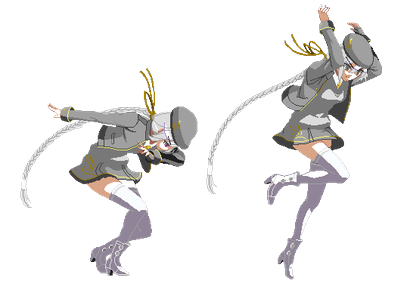
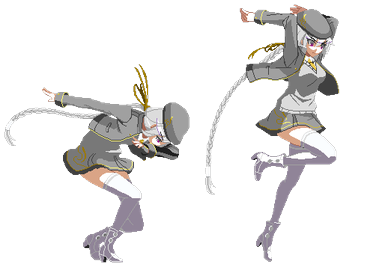
SFFG: Sarge's real animation set, mapped by the owner frame by frame
The original segmentation was wrong: canvas-size runs don't align with
animation boundaries in this pack, so several blocks merged unrelated
animations. The owner watched every block animated (36-cell GIF grid) and
identified each one; strips rebuilt from the correct frames:

- idle is a real stance loop (old one was her INTRO animation)
- true walk forward + dedicated walk backward
- Naruto-style sprint for the dash, lean-back dodge hop for the backdash
- light = punch, heavy = pirouette kick, special = her braid used as a
  whip (Reel In), crouch heavy = braid uppercut launcher, air = volley
  kick, super = the vertical flag kick
- real block, knockdown, and getup animations
- crouch is a stand-to-kneel transition the engine now holds

Engine (all optional, other characters unaffected): walkback / dash /
backdash / block / getup anim keys with graceful fallbacks, per-move
anim override (move.anim names its sheet), crouch hold-last, generalized
frame-count math (no more hardcoded 4s and 6s).

Claude-Session: https://claude.ai/code/session_01ToKNyodTLDquYTFuebZcQU

diff --git a/fight.html b/fight.html
@@ -473,6 +473,14 @@ function show(id){
      idleTop  y of the top of the head in the idle pose (portrait scaling)
      scale    game pixels per cell pixel
      anims    idle/run/jump/fall/attack1/attack2/hit/death → {f:file, n:frames}
+              optional extras (used automatically when present): walkback,
+              dash, backdash, block, getup, crouch (stand-to-kneel, held),
+              plus any custom key a move points at via its anim field.
+              Per-anim cw/ch/cx/fy override the global cell geometry.
+   A move may set anim:'key' to use its own sheet; otherwise light-ish moves
+   share attack1 and heavy-ish moves share attack2. The engine always puts
+   the sheet's second-to-last frame on the move's active window — author
+   strips as windup…, impact, follow-through.
    Few art frames + fast gameplay is fine: the engine stretches or holds
    frames to fit each move's real frame data. Chunky is a feature.
    ════════════════════════════════════════════════════════════════════ */
@@ -541,29 +549,40 @@ const CHARACTERS=[
   w:48, h:150, crouchH:104,
   sprite:{ /* "Fighter Anime Girl Sprite" by neopixelboyco (itch.io, CC0 option) —
              design verified distinct from any commercial fighter; chroma-keyed,
-             cropped and re-composed into strips. See art/sarge/LICENSE.txt */
+             cropped and re-composed into strips. Frame mapping identified by
+             the owner watching every block animated. See art/sarge/LICENSE.txt */
     path:'art/sarge/', scale:0.58, smooth:1, idleTop:8,
     anims:{
-      idle:{f:'idle.png',n:9,cw:176,ch:270,cx:106,fy:264},
-      run:{f:'run.png',n:8,cw:424,ch:300,cx:126,fy:295},
-      jump:{f:'jump.png',n:2,cw:202,ch:284,cx:108,fy:278},
-      fall:{f:'fall.png',n:2,cw:165,ch:303,cx:78,fy:297},
-      attack1:{f:'attack1.png',n:8,cw:326,ch:268,cx:159,fy:263},
-      attack2:{f:'attack2.png',n:9,cw:289,ch:281,cx:106,fy:275},
-      hit:{f:'hit.png',n:4,cw:141,ch:270,cx:61,fy:265},
-      death:{f:'death.png',n:6,cw:262,ch:279,cx:132,fy:274},
-      crouch:{f:'crouch.png',n:6,cw:168,ch:253,cx:92,fy:247}
+      idle:{f:'idle.png',n:8,cw:163,ch:269,cx:106,fy:264},
+      run:{f:'run.png',n:9,cw:173,ch:267,cx:88,fy:262},
+      walkback:{f:'walkback.png',n:7,cw:124,ch:268,cx:59,fy:262},
+      dash:{f:'dash.png',n:8,cw:256,ch:190,cx:129,fy:185},
+      backdash:{f:'backdash.png',n:6,cw:216,ch:270,cx:121,fy:265},
+      jump:{f:'jump.png',n:2,cw:194,ch:267,cx:96,fy:262},
+      fall:{f:'fall.png',n:2,cw:163,ch:300,cx:76,fy:295},
+      attack1:{f:'attack1.png',n:6,cw:252,ch:258,cx:115,fy:252},
+      attack2:{f:'attack2.png',n:8,cw:287,ch:278,cx:105,fy:273},
+      special:{f:'special.png',n:8,cw:269,ch:280,cx:156,fy:274},
+      super:{f:'super.png',n:9,cw:273,ch:323,cx:78,fy:317},
+      clight:{f:'clight.png',n:6,cw:274,ch:176,cx:93,fy:171},
+      cheavy:{f:'cheavy.png',n:7,cw:261,ch:206,cx:138,fy:200},
+      airatk:{f:'airatk.png',n:6,cw:323,ch:266,cx:158,fy:260},
+      hit:{f:'hit.png',n:4,cw:202,ch:268,cx:59,fy:262},
+      block:{f:'block.png',n:4,cw:213,ch:266,cx:110,fy:261},
+      death:{f:'death.png',n:6,cw:320,ch:249,cx:135,fy:244},
+      getup:{f:'getup.png',n:5,cw:241,ch:168,cx:120,fy:162},
+      crouch:{f:'crouch.png',n:4,cw:140,ch:268,cx:61,fy:262}
     }
   },
   moves:{
-    light:{name:'Whip Snap',dmg:55,startup:8,active:3,recovery:14,hitstun:15,blockstun:9,hitstop:5,kbx:70,box:{x:28,y:-128,w:92,h:30}},
-    heavy:{name:'Crack the Sky',dmg:115,startup:14,active:4,recovery:20,hitstun:22,blockstun:12,hitstop:9,kbx:110,box:{x:30,y:-140,w:104,h:44}},
-    special:{name:'Reel In',dmg:90,startup:13,active:4,recovery:22,hitstun:26,blockstun:13,hitstop:10,kbx:-130,box:{x:36,y:-130,w:120,h:40}},
-    air:{name:'Sky Lash',dmg:60,startup:8,active:7,recovery:9,hitstun:15,blockstun:9,hitstop:5,kbx:60,hits:'high',box:{x:20,y:-100,w:96,h:40}},
-    clight:{name:'Boot Lash',dmg:45,startup:7,active:3,recovery:12,hitstun:14,blockstun:9,hitstop:5,kbx:55,hits:'low',box:{x:30,y:-44,w:100,h:32}},
-    cheavy:{name:'Trip Wire',dmg:95,startup:12,active:4,recovery:20,hitstun:22,blockstun:12,hitstop:8,kbx:70,hits:'low',launch:1,kby:-160,box:{x:32,y:-42,w:110,h:32}},
+    light:{name:'Jab',dmg:55,startup:8,active:3,recovery:14,hitstun:15,blockstun:9,hitstop:5,kbx:70,box:{x:26,y:-128,w:84,h:30}},
+    heavy:{name:'Pirouette Kick',dmg:115,startup:14,active:4,recovery:20,hitstun:22,blockstun:12,hitstop:9,kbx:110,box:{x:28,y:-136,w:100,h:46}},
+    special:{name:'Reel In',dmg:90,startup:13,active:4,recovery:22,hitstun:26,blockstun:13,hitstop:10,kbx:-130,anim:'special',box:{x:34,y:-130,w:110,h:40}},
+    air:{name:'Volley Kick',dmg:60,startup:8,active:7,recovery:9,hitstun:15,blockstun:9,hitstop:5,kbx:60,hits:'high',anim:'airatk',box:{x:20,y:-100,w:104,h:40}},
+    clight:{name:'Ankle Sweep',dmg:45,startup:7,active:3,recovery:12,hitstun:14,blockstun:9,hitstop:5,kbx:55,hits:'low',anim:'clight',box:{x:30,y:-44,w:112,h:32}},
+    cheavy:{name:'Braid Riser',dmg:95,startup:12,active:4,recovery:20,hitstun:22,blockstun:12,hitstop:8,kbx:60,launch:1,kby:-230,anim:'cheavy',box:{x:20,y:-150,w:80,h:110}},
     throw:{name:'Court Martial',dmg:115,startup:5,active:3,recovery:24,hitstop:10,kbx:80,launch:1,kby:-190,throw:1,box:{x:8,y:-130,w:52,h:70}},
-    super:{name:'Dishonorable Discharge',dmg:240,startup:10,active:6,recovery:28,hitstun:30,blockstun:16,hitstop:14,kbx:210,launch:1,kby:-240,inv:1,super:1,box:{x:28,y:-140,w:150,h:52}}
+    super:{name:'Dishonorable Discharge',dmg:240,startup:10,active:6,recovery:28,hitstun:30,blockstun:16,hitstop:14,kbx:200,launch:1,kby:-260,inv:1,super:1,anim:'super',box:{x:14,y:-170,w:90,h:130}}
   }
 }];
 
@@ -1077,38 +1096,55 @@ function poseOf(S,f){
    this is the "few drawings, 60fps game" trick working as designed. */
 function spriteFrame(f,c){
   const sp=c.sprite,m=currentMove(f);
+  const A=sp.anims;
   switch(f.st){
     case ST.walk:{
-      const a=sp.anims.run;
       const dir=((f.prevIn&IN_R)?1:0)-((f.prevIn&IN_L)?1:0);
-      let idx=((f.t/6)|0)%a.n;
-      if(dir!==0&&dir!==f.face)idx=a.n-1-idx;     // walking backwards: same run, reversed
+      const back=dir!==0&&dir!==f.face;
+      if(back&&A.walkback)return {k:'walkback',idx:((f.t/6)|0)%A.walkback.n,squash:1};
+      let idx=((f.t/6)|0)%A.run.n;
+      if(back)idx=A.run.n-1-idx;                  // no dedicated back-walk: play run reversed
       return {k:'run',idx,squash:1};
     }
     case ST.crouch:
-      if(sp.anims.crouch)return {k:'crouch',idx:((f.t/7)|0)%sp.anims.crouch.n,squash:1};
-      return {k:'idle',idx:((f.t/7)|0)%sp.anims.idle.n,squash:0.78};
-    case ST.jumpsquat: return {k:'jump',idx:0,squash:0.85};
+      /* crouch sheets are a stand-to-kneel transition: play once, hold the last frame */
+      if(A.crouch)return {k:'crouch',idx:Math.min(A.crouch.n-1,(f.t/5)|0),squash:1};
+      return {k:'idle',idx:((f.t/7)|0)%A.idle.n,squash:0.78};
+    case ST.jumpsquat:
+      if(A.crouch)return {k:'crouch',idx:Math.min(A.crouch.n-1,1),squash:1};
+      return {k:'jump',idx:0,squash:0.85};
     case ST.air: return {k:f.vy<0?'jump':'fall',idx:f.vy<0?(f.vy<-120?0:1):(f.vy>120?1:0),squash:1};
     case ST.land: return {k:'fall',idx:1,squash:0.9};
-    case ST.dash: return {k:'run',idx:((f.t/3)|0)%sp.anims.run.n,squash:1};
-    case ST.backdash: return {k:'jump',idx:0,squash:0.9};
+    case ST.dash:
+      if(A.dash)return {k:'dash',idx:((f.t/3)|0)%A.dash.n,squash:1};
+      return {k:'run',idx:((f.t/3)|0)%A.run.n,squash:1};
+    case ST.backdash:
+      if(A.backdash)return {k:'backdash',idx:Math.min(A.backdash.n-1,(f.t/3)|0),squash:1};
+      return {k:'jump',idx:0,squash:0.9};
     case ST.attack: case ST.airattack:{
-      const k=(f.mv==='light'||f.mv==='air'||f.mv==='clight'||f.mv==='throw')?'attack1':'attack2';
-      const n=sp.anims[k].n;
+      /* a move can name its own sheet (m.anim); otherwise light-ish moves share
+         attack1 and heavy-ish moves share attack2 */
+      let k=(m.anim&&A[m.anim])?m.anim:
+        ((f.mv==='light'||f.mv==='air'||f.mv==='clight'||f.mv==='throw')?'attack1':'attack2');
+      const n=A[k].n;
       let idx;
       if(f.t<m.startup)idx=Math.min(n-3,((f.t*(n-2))/m.startup)|0); // windup drawings
-      else if(f.t<m.startup+m.active)idx=n-2;                       // the slash frame
+      else if(f.t<m.startup+m.active)idx=n-2;                       // the impact frame
       else idx=n-1;                                                 // follow-through
-      return {k,idx,squash:(f.mv==='clight'||f.mv==='cheavy')?0.8:1};
+      const sq=(f.mv==='clight'||f.mv==='cheavy')&&!(m.anim&&A[m.anim])?0.8:1;
+      return {k,idx,squash:sq};
     }
-    case ST.hitstun: return {k:'hit',idx:Math.min(3,((f.t*4)/Math.max(1,f.dur))|0),squash:1};
-    case ST.blockstun: return {k:'hit',idx:0,squash:1};
-    case ST.launched: return {k:'hit',idx:1,squash:1};
-    case ST.knockdown: return {k:'death',idx:Math.min(5,(f.t/5)|0),squash:1};
-    case ST.getup: return {k:'death',idx:Math.max(0,5-((f.t/3)|0)),squash:1};   // death, rewound
-    case ST.ko: return {k:'death',idx:Math.min(5,(f.t/8)|0),squash:1};
-    default: return {k:'idle',idx:((f.t/7)|0)%sp.anims.idle.n,squash:1};
+    case ST.hitstun:{const n=A.hit.n;return {k:'hit',idx:Math.min(n-1,((f.t*n)/Math.max(1,f.dur))|0),squash:1};}
+    case ST.blockstun:
+      if(A.block)return {k:'block',idx:Math.min(A.block.n-1,(f.t/3)|0),squash:1};
+      return {k:'hit',idx:0,squash:1};
+    case ST.launched: return {k:'hit',idx:Math.min(A.hit.n-1,1),squash:1};
+    case ST.knockdown:{const n=A.death.n;return {k:'death',idx:Math.min(n-1,(f.t/5)|0),squash:1};}
+    case ST.getup:
+      if(A.getup)return {k:'getup',idx:Math.min(A.getup.n-1,((f.t*A.getup.n)/14)|0),squash:1};
+      return {k:'death',idx:Math.max(0,A.death.n-1-((f.t/3)|0)),squash:1};      // death, rewound
+    case ST.ko:{const n=A.death.n;return {k:'death',idx:Math.min(n-1,(f.t/8)|0),squash:1};}
+    default: return {k:'idle',idx:((f.t/7)|0)%A.idle.n,squash:1};
   }
 }
 
